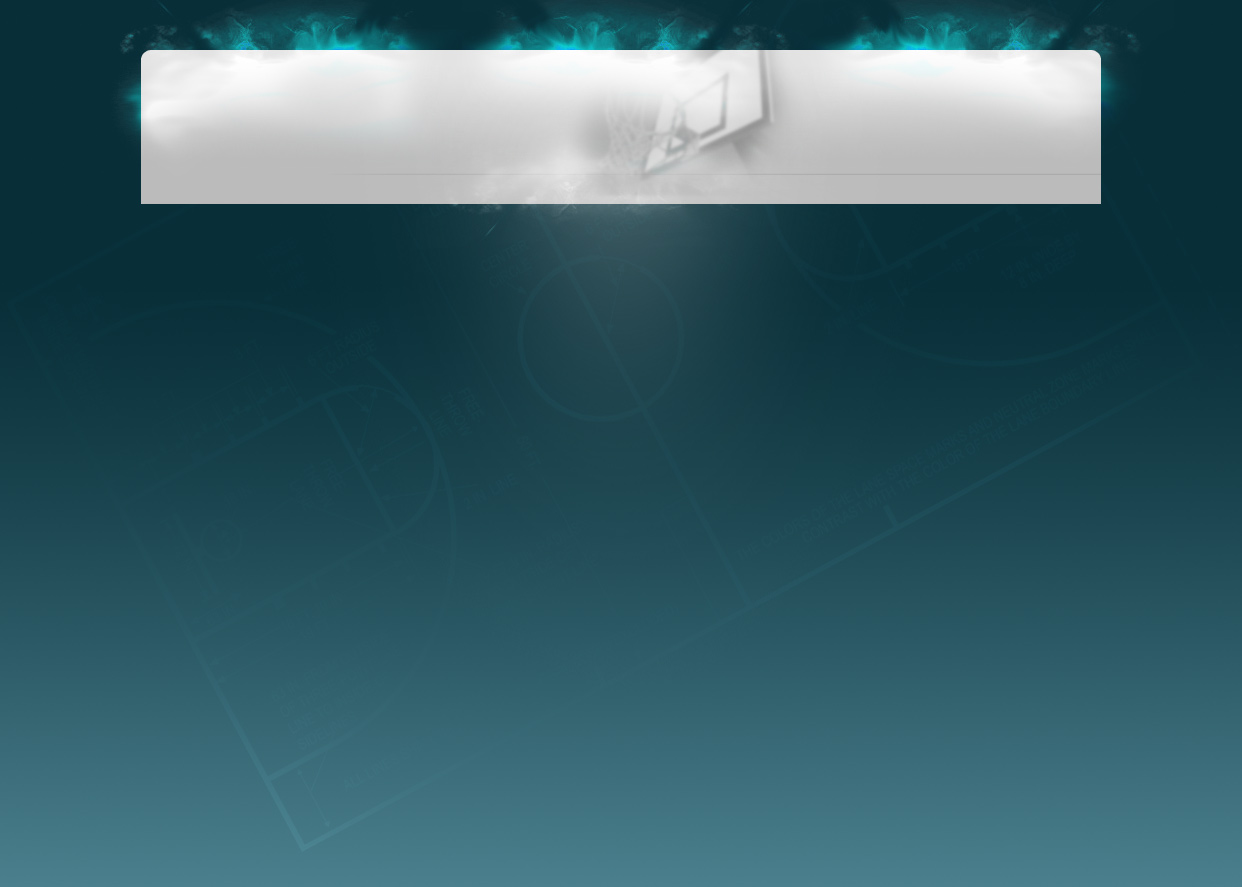
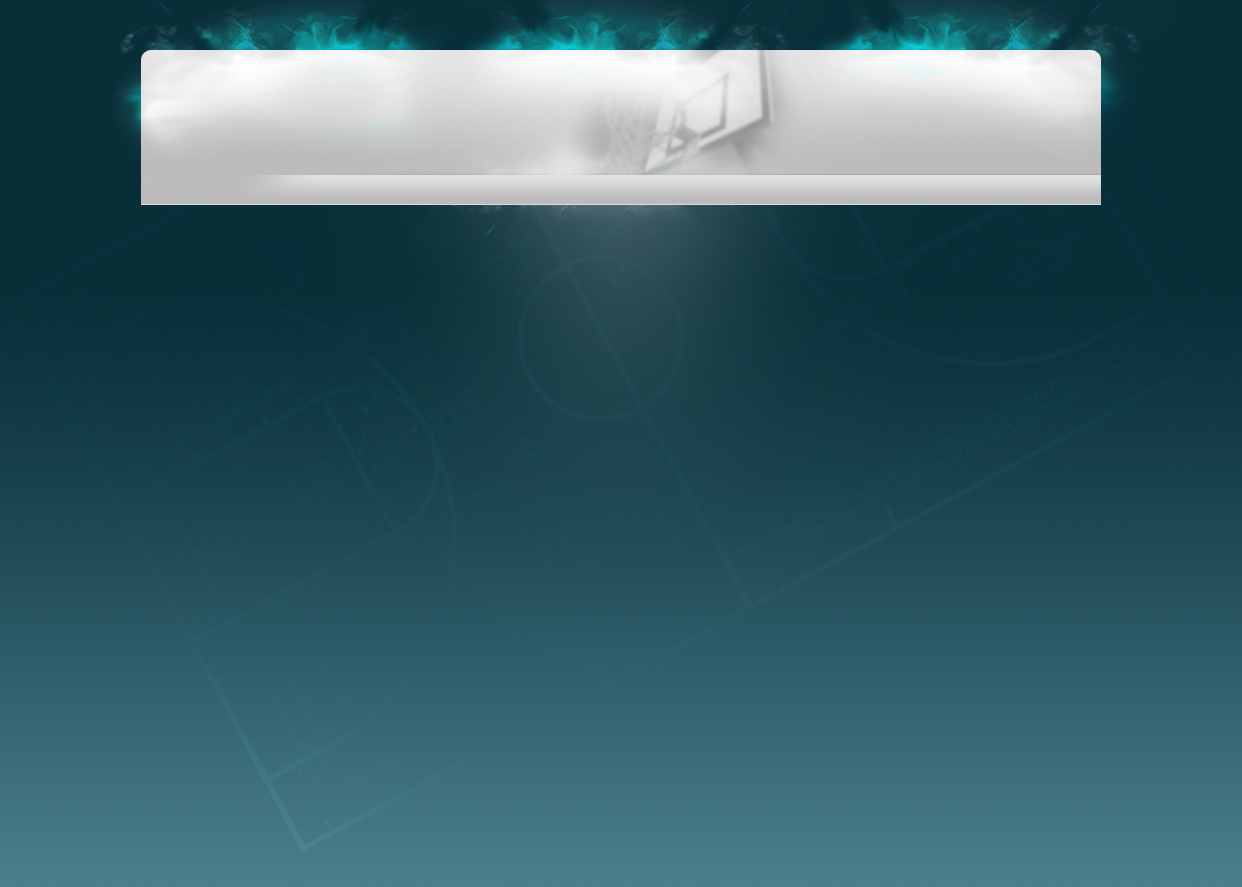
Styling af js menu

Changed region(s): [[0.4895, 0.1826, 0.8873, 0.2131], [0.2142, 0.1826, 0.3977, 0.2131], [0.4283, 0.2131, 0.4589, 0.2435]]

diff --git a/sites/all/themes/agfbasket/styles/agfbasket.css b/sites/all/themes/agfbasket/styles/agfbasket.css
@@ -1,6 +1,10 @@
 /* CSS: Brian Jensen @ www.magnify.dk */
 
+/*
+  Google fonts
+*/
 
+@import url('http://fonts.googleapis.com/css?family=PT+Sans:regular,bold&subset=cyrillic');
 
 /*
   Font, colors etc.
@@ -54,38 +58,25 @@ dl, hr, h1, h2, h3, h4, h5, h6, ol, ul, pre, table, address, fieldset {
 }
 
 /*
-  Google fonts
-*/
-
-@import url('http://fonts.googleapis.com/css?family=Nobile:regular&subset=latin');
-
-/*
   Containers
 */
 
 #wrapper {
-  background: url('../images/content-bg-bottom.png') no-repeat center bottom;
   padding: 0 0 35px;
 }
 
 #header {
-  border-bottom: 1px solid #dcdcdc;
   height: 205px;
   position: relative;
 }
 
-#header-inner {
-  height: 174px;
-}
-
 #logo {
-  left: 10px;
+  left: 30px;
   position: absolute;
-  top: 15px;
+  top: 40px;
 }
 
 #main {
-  background-color: #fff;
   padding: 15px 15px 0;
 }
 
@@ -108,6 +99,12 @@ dl, hr, h1, h2, h3, h4, h5, h6, ol, ul, pre, table, address, fieldset {
   padding: 10px;
 }
 
+/* Breadcrumb */
+
+.breadcrumb {
+    background-color: #000;
+}
+
 /*
   General menu stuff
 */
@@ -120,13 +117,12 @@ ul.menu li {
 /* Mainmenu */
 
 #main-menu {
-  background: url('../images/main-menu-bg.png') no-repeat;
+    position: absolute;
+    top: 175px;
 }
 
 #main-menu ul.menu {
   float: right;
-  height: 31px;
-  padding: 2px 0 0;
 }
 
 #main-menu ul.menu li {
@@ -136,18 +132,25 @@ ul.menu li {
   padding: 0;
 }
 
-#main-menu ul.menu li.active-trail {
+#main-menu ul.menu li.active-trail,
+#main-menu ul.menu li.hover {
   background: url('../images/main-menu-active-bg.png') repeat-x;
   border-right: 1px solid #adadad;
   border-left: 1px solid #adadad;
 }
 
+#main-menu ul.menu li.active-trail a,
+#main-menu ul.menu li.hover a {
+  padding: 3px 19px 2px;
+}
+
 #main-menu ul.menu li a {
   color: #000;
   display: block;
-  font-size: 85%;
+  font-family: 'PT Sans', Arial, sans-serif;
+  font-size: 80%;
   font-weight: bold;
-  padding: 2px 20px;
+  padding: 3px 20px 2px;
   text-decoration: none;
   text-shadow: 1px 1px 1px #fff;
   text-transform: uppercase;
@@ -159,7 +162,6 @@ ul.menu li {
 }
 
 #main-menu ul.menu li.active a,
-#main-menu ul.menu li a:hover,
 #main-menu ul.menu li a:active {
   color: #000;
 }

diff --git a/sites/all/themes/agfbasket/scripts/common.js b/sites/all/themes/agfbasket/scripts/common.js
@@ -1,32 +1,17 @@
 $(document).ready(function() {  
 
-  // Add example to top search form
-  // Get search form input
-  $('#fuzzysearch-box-form .form-item input.form-text')
-    // Add example function
-    .example(
-      // Get input field
-      $('#block-fuzzysearch-0 h2.title')
-      // Get the title of the input field
-      .text()
-  );
+    $('#main-menu ul li.active-trail').addClass('selected');
 
-  // Hijack carousel pager link
-  $('.views-slideshow-ddblock-cycle-urbanmediaspace a.pager-link').click(function() {
-    location.href = $(this).attr('href');
-  });
-
-  // Add opacity hover effect on footer logos
-  $('#footer-logos div a')
-  .css({
-    'opacity': .25,
-    'display': 'inline-block'
-  })
-  .mouseover(function() {
-    $(this).css('opacity',1);
-  })
-  .mouseout(function() {
-    $(this).css('opacity',.25);
-  })
+    $('#main-menu ul li')
+    .hover(
+      function () {
+        $('#main-menu ul li.selected').removeClass('active-trail');
+        $(this).addClass("hover");
+      },
+      function () {
+        $('#main-menu ul li.selected').addClass('active-trail');
+        $(this).removeClass("hover");
+      }
+    );
 
 });

diff --git a/sites/all/themes/agfbasket/templates/page/page.tpl.php b/sites/all/themes/agfbasket/templates/page/page.tpl.php
@@ -39,11 +39,11 @@
 
     </div> <!--/#header -->
 
+    <?php print $breadcrumb; ?>
+
     <div id="main" class="clear-block">
 
       <div id="main-wrapper" class="clear-block">
-
-        <?php print $breadcrumb; ?>
 
         <?php print $messages; ?>
         <?php print $help; ?>
